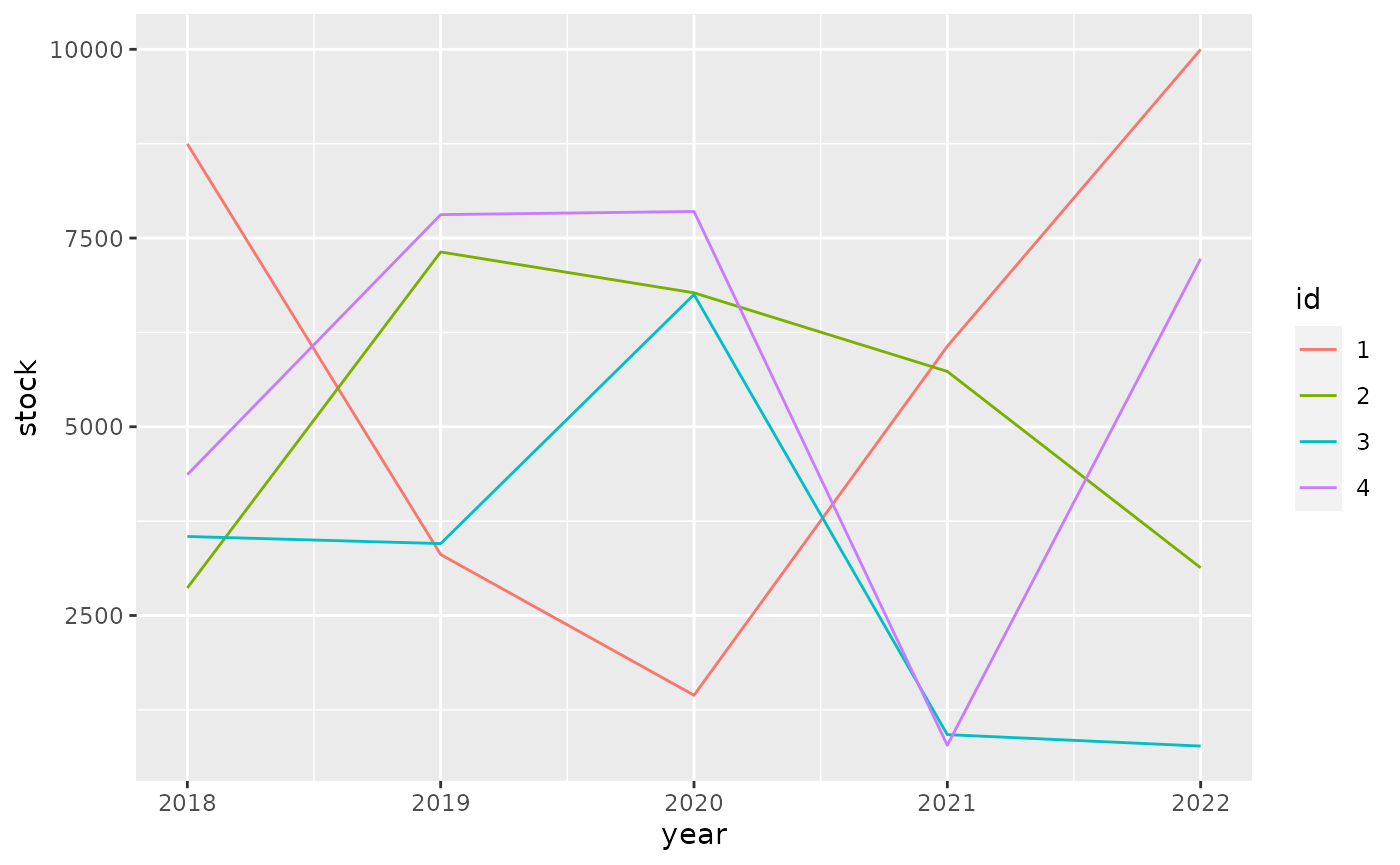
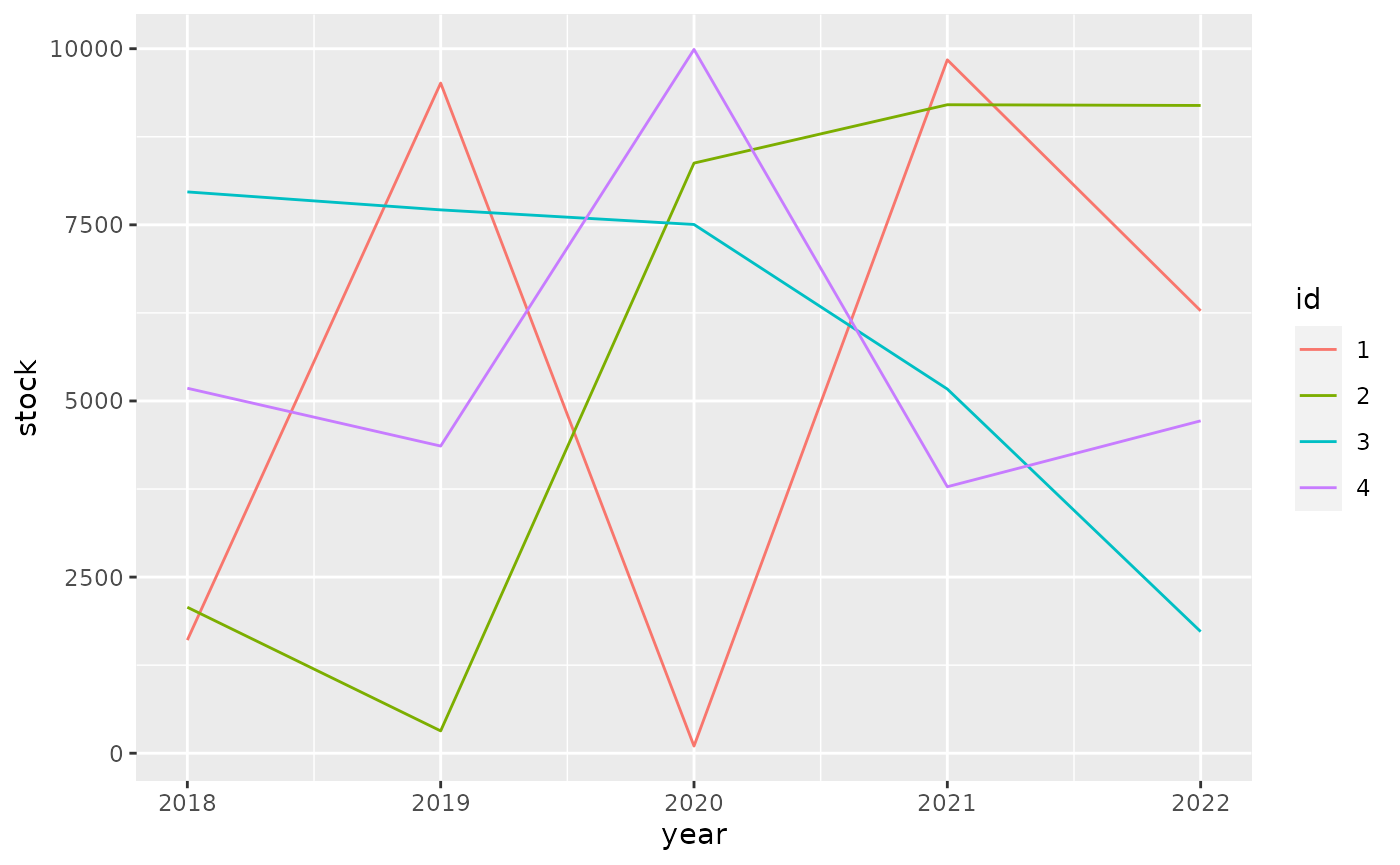
Built site for tibble: 3.1.6@ec708fa

diff --git a/articles/formats.html b/articles/formats.html
@@ -226,10 +226,10 @@
 <span class="co">#&gt; <span style="color: #949494;"># A tibble: 4 × 6</span></span>
 <span class="co">#&gt;   id       `2018`    `2019`    `2020`    `2021`    `2022`</span>
 <span class="co">#&gt;   <span style="color: #949494; font-style: italic;">&lt;fct&gt;</span> <span style="color: #949494; font-style: italic;">&lt;dbl:fmt&gt;</span> <span style="color: #949494; font-style: italic;">&lt;dbl:fmt&gt;</span> <span style="color: #949494; font-style: italic;">&lt;dbl:fmt&gt;</span> <span style="color: #949494; font-style: italic;">&lt;dbl:fmt&gt;</span> <span style="color: #949494; font-style: italic;">&lt;dbl:fmt&gt;</span></span>
-<span class="co">#&gt; <span style="color: #BCBCBC;">1</span> 1     $8,747.70 $3,307.91 $1,444.09 $6,066.05 $9,998.37</span>
-<span class="co">#&gt; <span style="color: #BCBCBC;">2</span> 2     $2,864.87 $7,315.38 $6,774.66 $5,733.02 $3,131.44</span>
-<span class="co">#&gt; <span style="color: #BCBCBC;">3</span> 3     $3,546.59 $3,452.46 $6,751.71   $921.84   $770.04</span>
-<span class="co">#&gt; <span style="color: #BCBCBC;">4</span> 4     $4,366.25 $7,810.19 $7,851.80   $780.56 $7,225.44</span></code></pre></div>
+<span class="co">#&gt; <span style="color: #BCBCBC;">1</span> 1     $1,605.62 $9,512.25   $101.32 $9,841.96 $6,279.83</span>
+<span class="co">#&gt; <span style="color: #BCBCBC;">2</span> 2     $2,071.76   $316.81 $8,376.28 $9,204.65 $9,194.26</span>
+<span class="co">#&gt; <span style="color: #BCBCBC;">3</span> 3     $7,967.36 $7,712.34 $7,504.99 $5,169.18 $1,726.20</span>
+<span class="co">#&gt; <span style="color: #BCBCBC;">4</span> 4     $5,180.61 $4,359.97 $9,989.49 $3,782.42 $4,718.01</span></code></pre></div>
 <p>For ggplot2 we need to do <a href="https://github.com/tidyverse/ggplot2/pull/4065" class="external-link">some work</a> to show apply the formatting to the scales.</p>
 <div class="sourceCode" id="cb6"><pre class="downlit sourceCode r">
 <code class="sourceCode R"><span class="kw"><a href="https://rdrr.io/r/base/library.html" class="external-link">library</a></span><span class="op">(</span><span class="va"><a href="https://ggplot2.tidyverse.org" class="external-link">ggplot2</a></span><span class="op">)</span>
@@ -240,10 +240,10 @@
   <span class="fu"><a href="https://ggplot2.tidyverse.org/reference/geom_path.html" class="external-link">geom_line</a></span><span class="op">(</span><span class="op">)</span></code></pre></div>
 <p><img src="formats_files/figure-html/unnamed-chunk-7-1.png" width="700"></p>
 <p>It pays off to specify formatting very early in the process. The diagram below shows the principal stages of data analysis and exploration from “R for data science”.</p>
-<div id="htmlwidget-b0cc8940e859a98583fe" style="width:700px;height:432.632880098888px;" class="DiagrammeR html-widget"></div>
-<script type="application/json" data-for="htmlwidget-b0cc8940e859a98583fe">{"x":{"diagram":"graph TD\n  Import --> Tidy\n  Tidy --> Transform\n  Transform --> Visualize\n  Visualize --> Communicate\n  Visualize --> Model\n  Model -.-> Transform"},"evals":[],"jsHooks":[]}</script><p>The subsequent diagram adds data formats, communication options, and explicit data formatting. The original r4ds transitions are highlighted in bold. There are two principal options where to apply formatting for results: right before communicating them, or right after importing.</p>
-<div id="htmlwidget-916f4a3405b25b08be0e" style="width:700px;height:432.632880098888px;" class="DiagrammeR html-widget"></div>
-<script type="application/json" data-for="htmlwidget-916f4a3405b25b08be0e">{"x":{"diagram":"graph TD\n  .csv --> Import\n  API --> Import\n  DBI --> Import\n  dbplyr --> Import\n  Import -.-> Format[Format for analysis]\n  Format -.-> Tidy\n\n  subgraph r4ds\n  Import ==> Tidy\n  Tidy ==> Transform\n  Transform ==> Visualize\n  Visualize ==> Model\n  Model -.-> Transform\n  Visualize ==> Communicate\n  end\n\n  Visualize -.-> FormatComm[Format for communication]\n  FormatComm -.-> Communicate\n\n  FormatComm -- Apply formatting early --> Format\n\n  dbplyr -.-> Tidy\n  dbplyr -.-> Transform\n  dbplyr -.-> Visualize\n\n  Communicate --> gt\n  Communicate --> ggplot2\n  Communicate --> DT\n  Communicate --> plotly"},"evals":[],"jsHooks":[]}</script><p>Applying formatting early in the process gives the added benefit of showing the data in a useful format during the “Tidy”, “Transform”, and “Visualize” stages. For this to be useful, we need to ensure that the formatting options applied early:</p>
+<div id="htmlwidget-15fa6db51db86864222f" style="width:700px;height:432.632880098888px;" class="DiagrammeR html-widget"></div>
+<script type="application/json" data-for="htmlwidget-15fa6db51db86864222f">{"x":{"diagram":"graph TD\n  Import --> Tidy\n  Tidy --> Transform\n  Transform --> Visualize\n  Visualize --> Communicate\n  Visualize --> Model\n  Model -.-> Transform"},"evals":[],"jsHooks":[]}</script><p>The subsequent diagram adds data formats, communication options, and explicit data formatting. The original r4ds transitions are highlighted in bold. There are two principal options where to apply formatting for results: right before communicating them, or right after importing.</p>
+<div id="htmlwidget-bf6ec2b495ca81043b9a" style="width:700px;height:432.632880098888px;" class="DiagrammeR html-widget"></div>
+<script type="application/json" data-for="htmlwidget-bf6ec2b495ca81043b9a">{"x":{"diagram":"graph TD\n  .csv --> Import\n  API --> Import\n  DBI --> Import\n  dbplyr --> Import\n  Import -.-> Format[Format for analysis]\n  Format -.-> Tidy\n\n  subgraph r4ds\n  Import ==> Tidy\n  Tidy ==> Transform\n  Transform ==> Visualize\n  Visualize ==> Model\n  Model -.-> Transform\n  Visualize ==> Communicate\n  end\n\n  Visualize -.-> FormatComm[Format for communication]\n  FormatComm -.-> Communicate\n\n  FormatComm -- Apply formatting early --> Format\n\n  dbplyr -.-> Tidy\n  dbplyr -.-> Transform\n  dbplyr -.-> Visualize\n\n  Communicate --> gt\n  Communicate --> ggplot2\n  Communicate --> DT\n  Communicate --> plotly"},"evals":[],"jsHooks":[]}</script><p>Applying formatting early in the process gives the added benefit of showing the data in a useful format during the “Tidy”, “Transform”, and “Visualize” stages. For this to be useful, we need to ensure that the formatting options applied early:</p>
 <ul>
 <li>give a good user experience for analysis
 <ul>

diff --git a/articles/types.html b/articles/types.html
@@ -357,7 +357,7 @@
 #&gt; $ factor         [3m [38;5;246m&lt;fct&gt; [39m [23m A
 #&gt; $ ordered        [3m [38;5;246m&lt;ord&gt; [39m [23m a
 #&gt; $ Date           [3m [38;5;246m&lt;date&gt; [39m [23m 2021-10-25
-#&gt; $ POSIXt         [3m [38;5;246m&lt;dttm&gt; [39m [23m 2021-10-25 03:57:40
+#&gt; $ POSIXt         [3m [38;5;246m&lt;dttm&gt; [39m [23m 2021-10-25 05:31:09
 #&gt; $ difftime       [3m [38;5;246m&lt;drtn&gt; [39m [23m 1 secs
 #&gt; $ hms            [3m [38;5;246m&lt;time&gt; [39m [23m 00:00:01
 #&gt; $ integer64      [3m [38;5;246m&lt;int64&gt; [39m [23m 10000000000
@@ -393,7 +393,7 @@
 <span class="co">#&gt;             "sym"</span>
 <span class="co">#&gt;         }, typeof(x))</span>
 <span class="co">#&gt; }</span>
-<span class="co">#&gt; &lt;bytecode: 0x5637be32bdf0&gt;</span>
+<span class="co">#&gt; &lt;bytecode: 0x562dc82bf480&gt;</span>
 <span class="co">#&gt; &lt;environment: namespace:pillar&gt;</span></code></pre></div>
 </div>
   </div>
